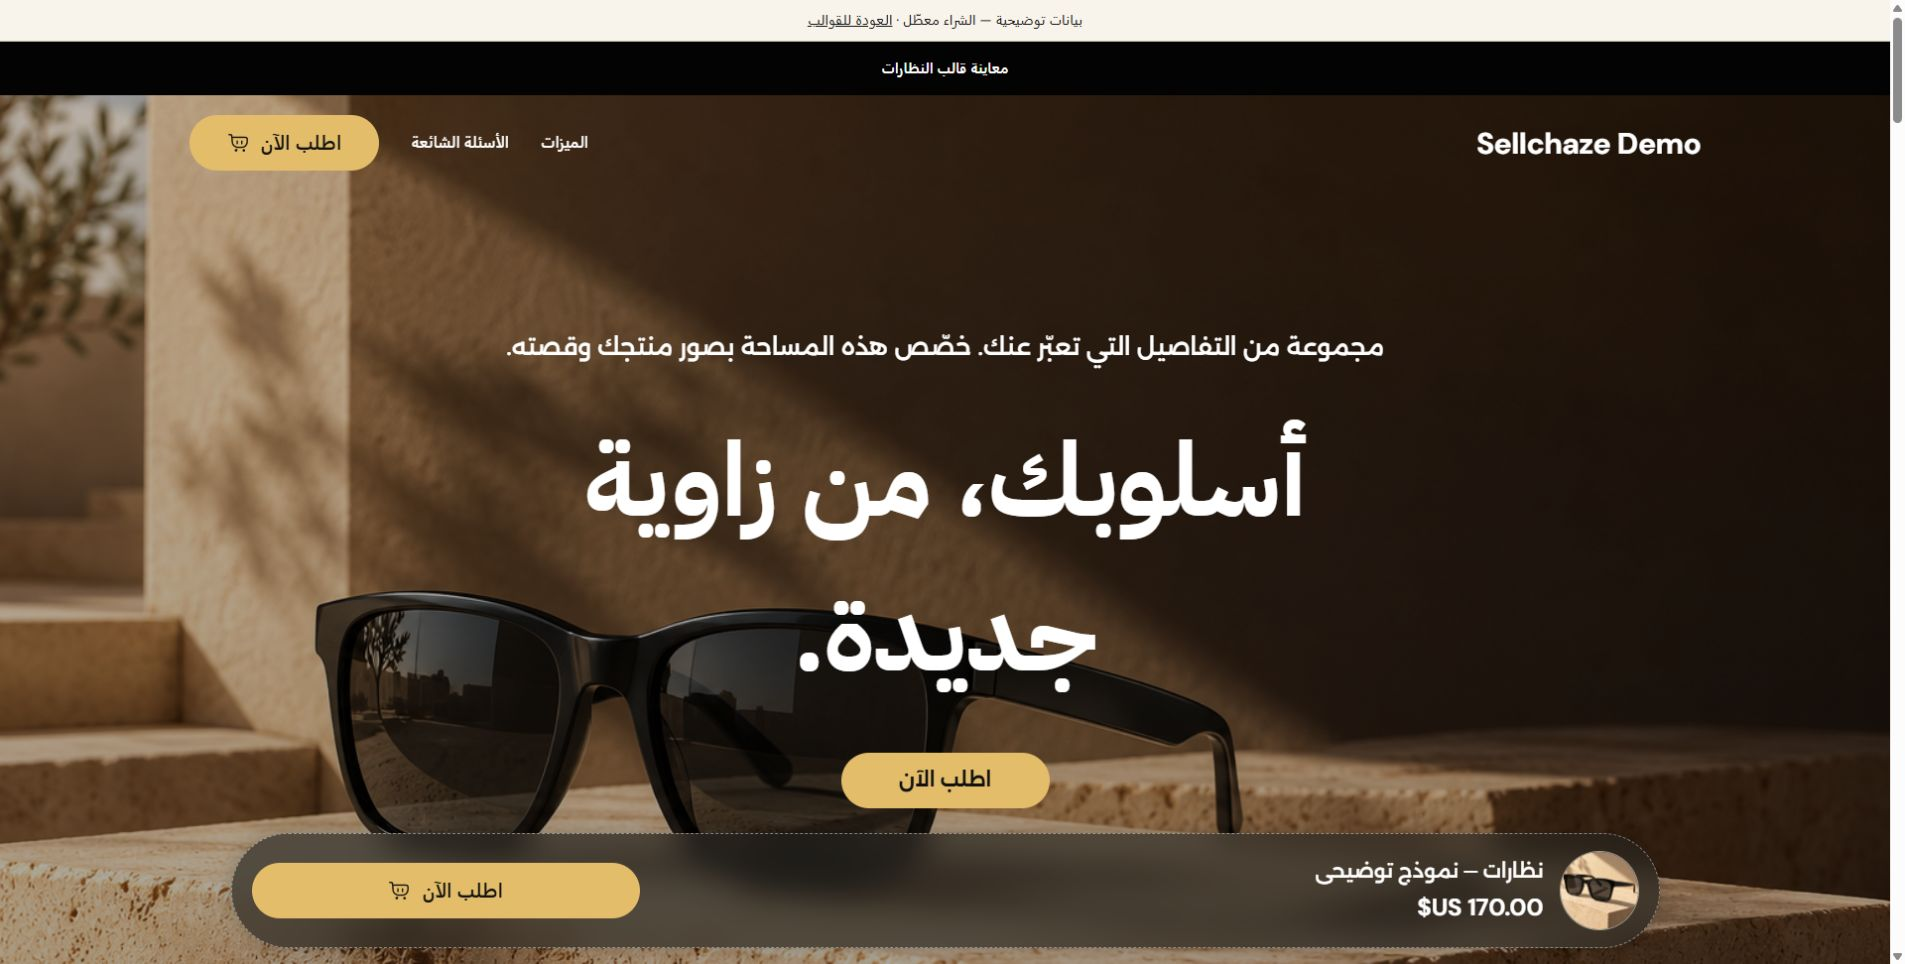
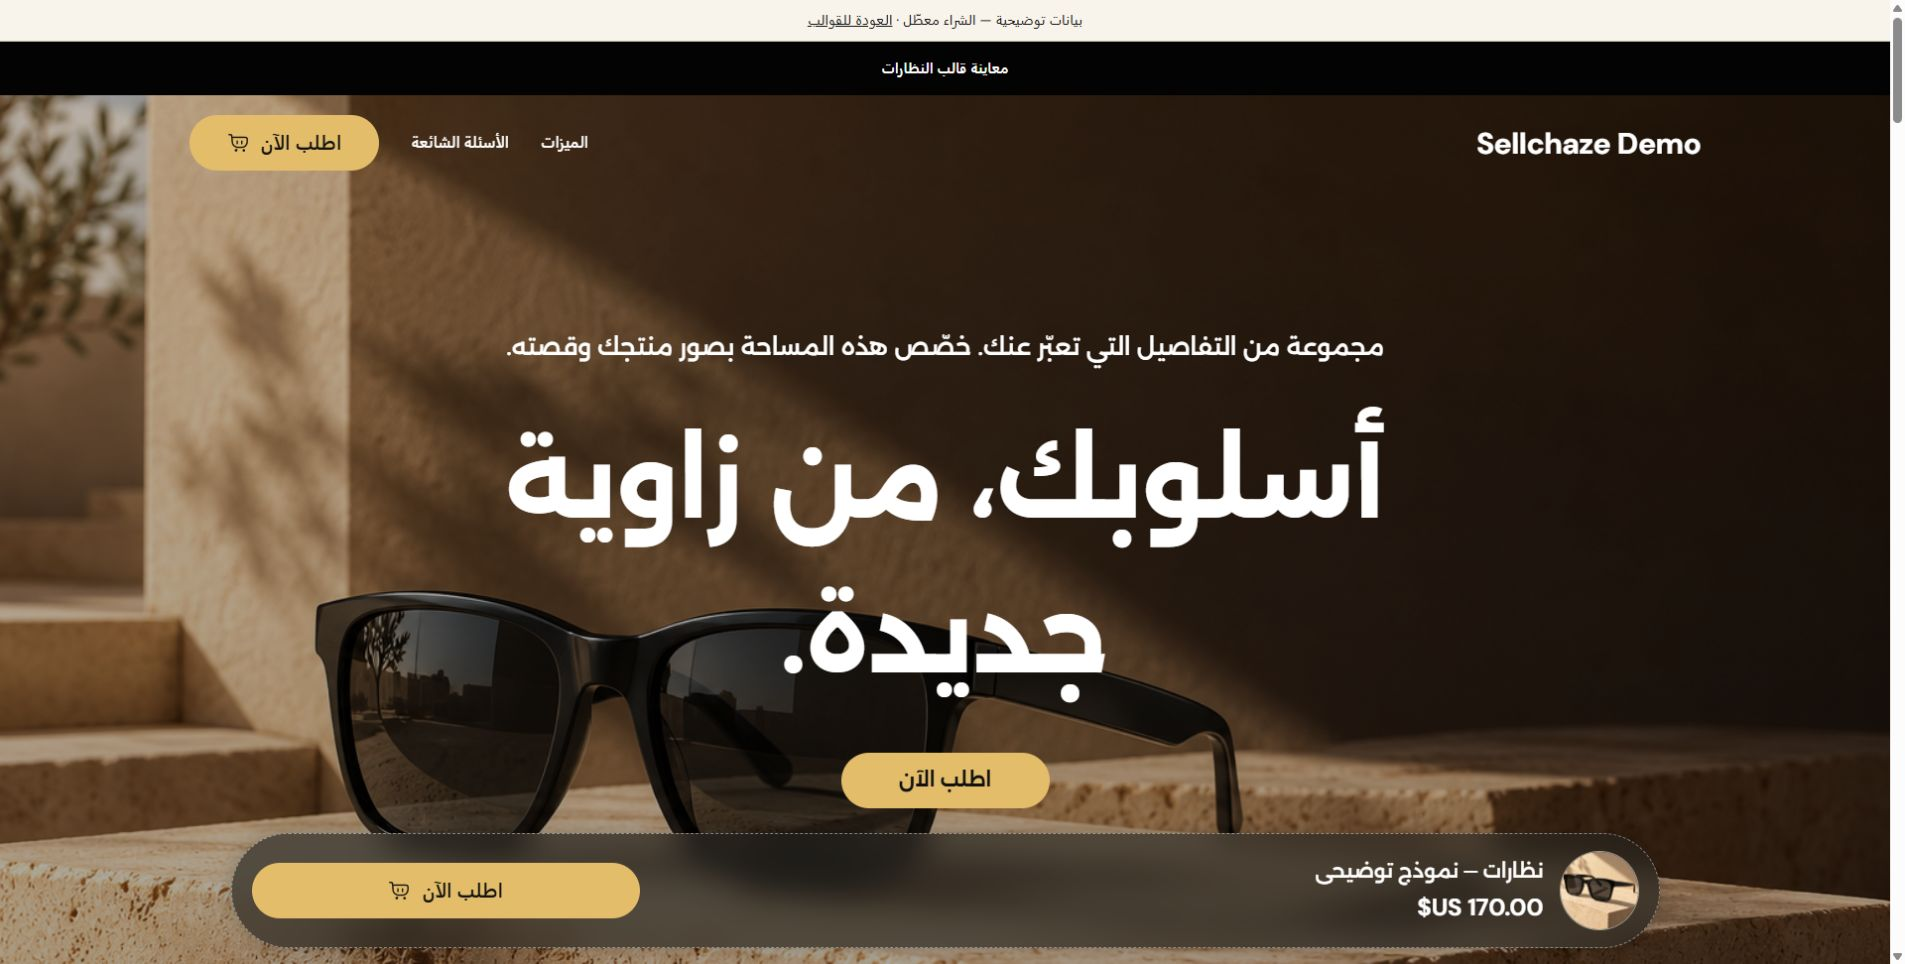
Keep Alexandria headings in Arabic Glasses funnels

Changed region(s): [[0.2478, 0.4046, 0.7433, 0.5913], [0.4026, 0.5913, 0.5885, 0.7469]]

diff --git a/src/apps/storefront/funnels/glasses.css b/src/apps/storefront/funnels/glasses.css
@@ -2,7 +2,7 @@
 @font-face{font-family:'DM Sans';src:url('/fonts/dmsans/dmsans-variable.woff2') format('woff2');font-weight:100 1000;font-display:swap}
 @font-face{font-family:Cairo;src:url('/fonts/cairo/cairo-variable.woff2') format('woff2');font-weight:200 1000;font-display:swap}
 .gf-root{--gf-gold:#e4bd6a;--gf-cream:#ded8d0;--color-primary:#c6a75e;--color-on-primary:#141414;--color-text:#181818;--color-surface:#fff;--color-border:#c6c1ba;--bg:#ded8d0;--text:#181818;--surface:#fff;--surface-2:#f8f6f3;--border:#c6c1ba;background:var(--gf-cream);color:#181818;font-family:'DM Sans',Alexandria,system-ui,sans-serif;line-height:1.5;padding-bottom:140px;overflow:clip}
-.gf-root[dir=rtl]{font-family:'DM Sans',system-ui,-apple-system,'Segoe UI',sans-serif}
+.gf-root[dir=rtl]{--font-arabic:Alexandria,Cairo,system-ui,sans-serif;font-family:'DM Sans',system-ui,-apple-system,'Segoe UI',sans-serif}
 .gf-root *{box-sizing:border-box}
 .gf-root :is(a,button,input,select,textarea,summary):focus-visible{outline:3px solid #876720;outline-offset:4px}
 .gf-root :is(h1,h2,h3,p,figure){margin:0}

diff --git a/tests/browser/storefront-accessibility.spec.ts b/tests/browser/storefront-accessibility.spec.ts
@@ -29,6 +29,7 @@ for (const locale of ['en', 'ar'] as const) {
       await page.goto(`/funnel-templates/glasses-${locale}?preview=1&lang=${locale}&theme=${locale === 'ar' ? 'sahra' : 'elite-wallets'}`, { waitUntil: 'networkidle' });
       await expect(page.locator('.gf-root')).toBeVisible();
       await expect(page.locator('.gf-root')).toHaveAttribute('dir', locale === 'ar' ? 'rtl' : 'ltr');
+      await expect(page.locator('.gf-hero h1')).toHaveCSS('font-family', /^Alexandria/);
       await expect(page.locator('form')).toHaveCount(0);
       await expect(page.locator('.gf-purchase-panel input').first()).toBeDisabled();
       await expect(page.locator('.gf-purchase-panel button')).toBeDisabled();
